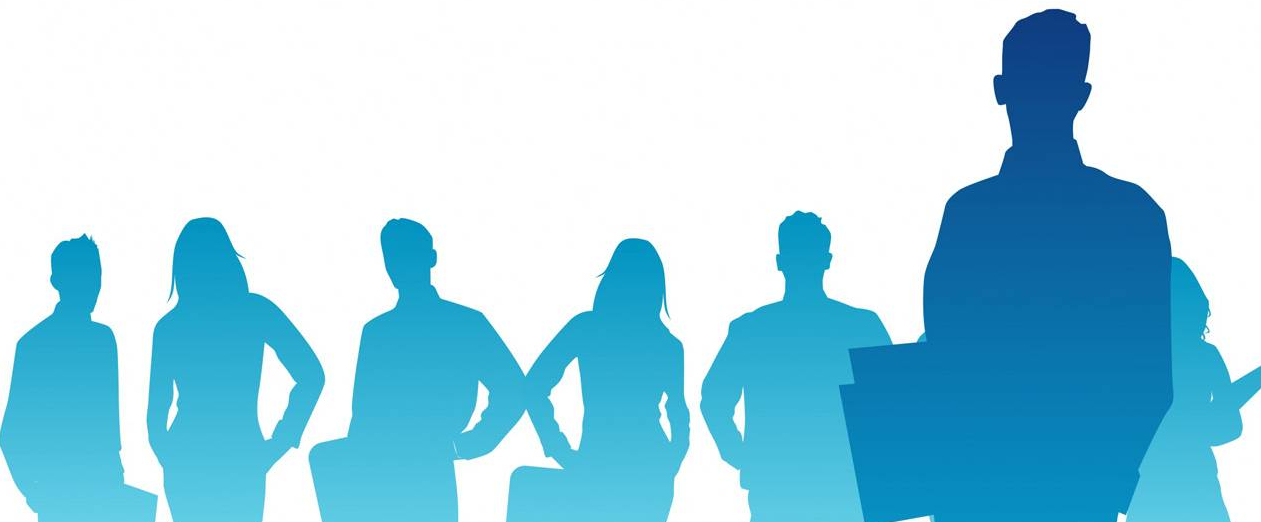
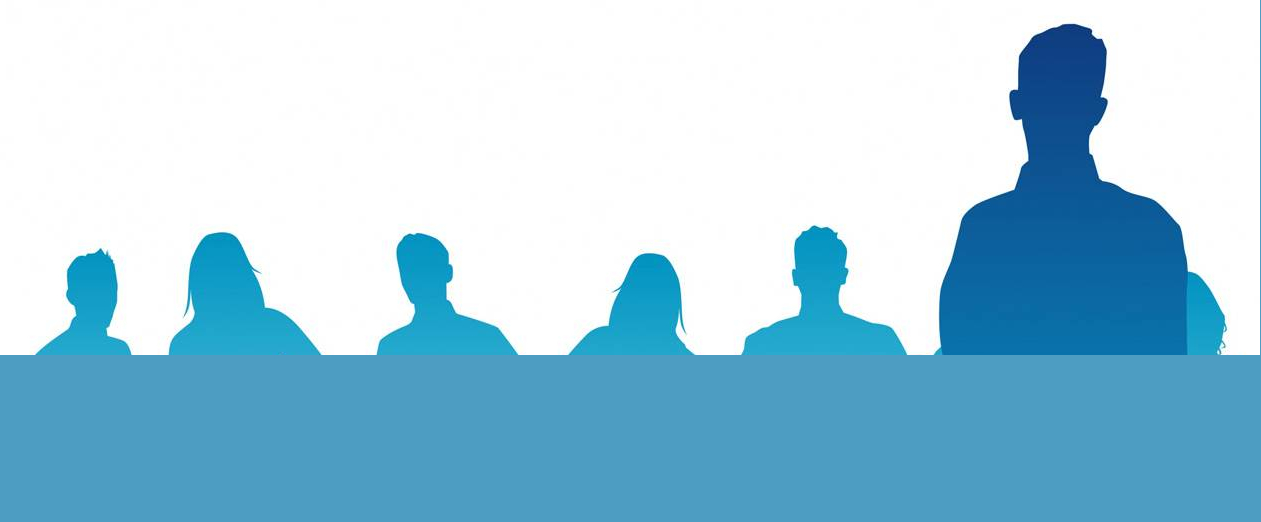
carousel edit

diff --git a/public_html/index.html b/public_html/index.html
@@ -106,21 +106,21 @@
                         <!-- Wrapper for slides -->
                         <div class="carousel-inner" role="listbox">
                             <div class="item active">
-                                <img src="img/carousel2.jpg" alt="android">
+                                <img src="img/carousel1.jpg" alt="Náš tým sehraných profesionálu rychle a kvalitně zpracuje návrh na Vaše webové stránky.">
                                 <div class="carousel-caption">
                                     Náš tým sehraných profesionálu rychle a kvalitně zpracuje návrh na Vaše webové stránky. 
                                 </div>
                             </div>
                             <div class="item">
-                                <img src="http://blog.templatemonster.com/wp-content/uploads/2012/12/bootstrap-site.jpg" alt="bootstrap">
+                                <img src="img/carousel2.jpg" alt="Naše stránky si může dovolit opravdu každý.">
                                 <div class="carousel-caption">
-                                    Lorem ipsum dolor sit amet, consectetur adipisicing elit, sed do eiusmod tempor incididunt ut labore et dolore magna aliqua. Ut enim ad minim veniam, quis nostrud exercitation ullamco laboris nisi ut aliquip ex ea commodo consequat.
+                                    Naše stránky si může dovolit opravdu každý.
                                 </div>
                             </div>
                             <div class="item">
-                                <img src="http://blog.templatemonster.com/wp-content/uploads/2012/12/bootstrap-site.jpg" alt="farcry">
+                                <img src="img/carousel3.jpg" alt="Pořiďte si naše stránky ještě dnes!">
                                 <div class="carousel-caption">
-                                    Lorem ipsum dolor sit amet, consectetur adipisicing elit, sed do eiusmod tempor incididunt ut labore et dolore magna aliqua. Ut enim ad minim veniam, quis nostrud exercitation ullamco laboris nisi ut aliquip ex ea commodo consequat.
+                                    Pořiďte si naše stránky ještě dnes!
                                 </div>
                             </div>
                         </div>
